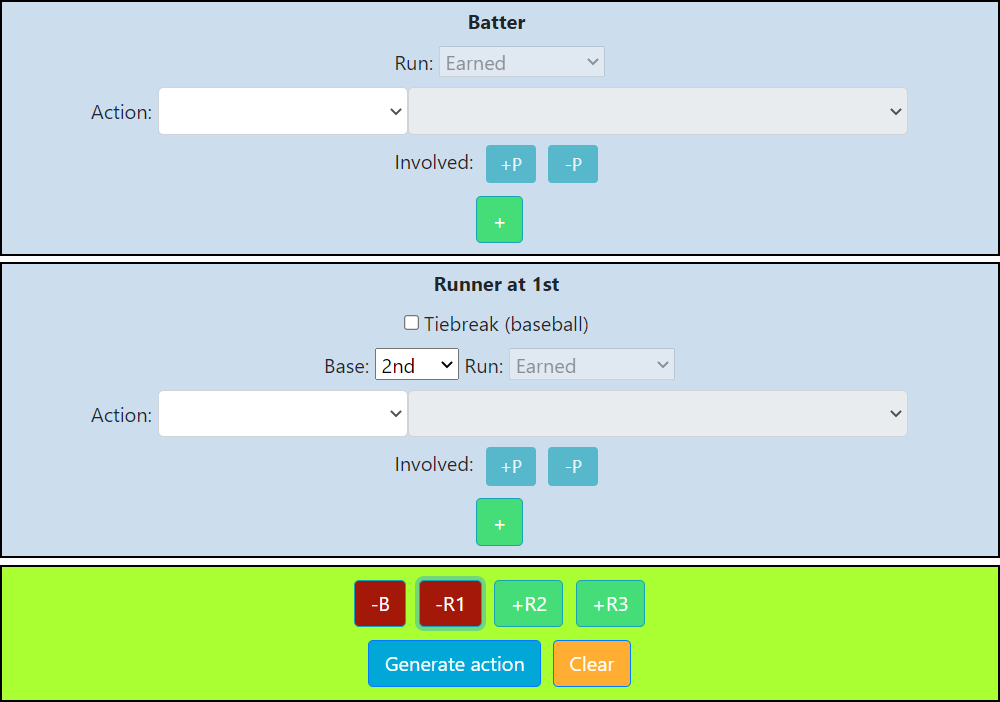
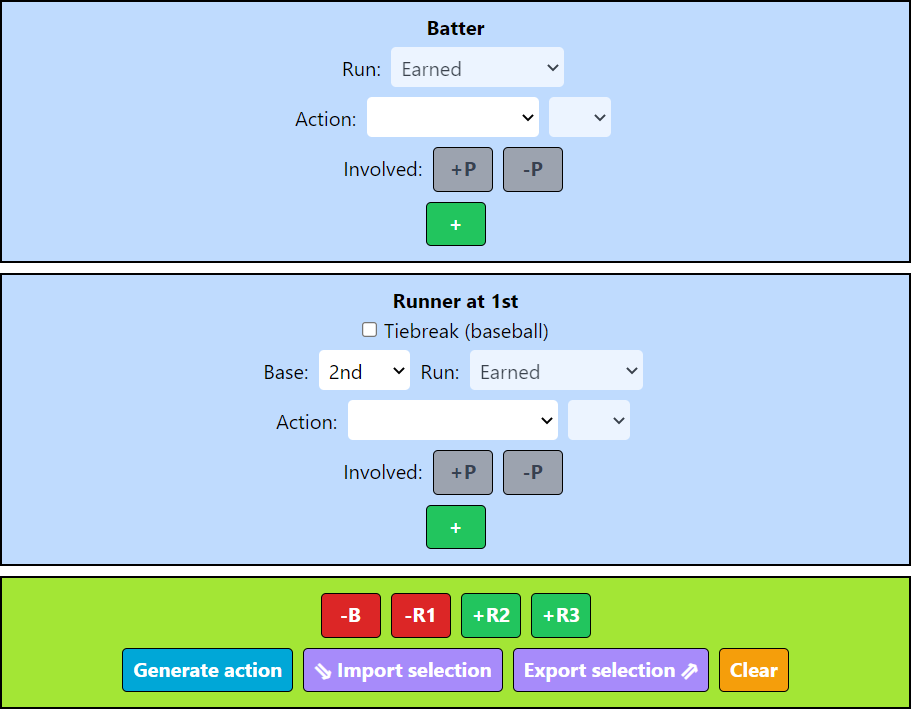
extend help with import/export

diff --git a/pages/help.vue b/pages/help.vue
@@ -170,6 +170,21 @@
       <img src="/15-clear.png" width="auto" height="50">
     </div>
 
+    <h3>Advanced - Import/Export input selection</h3>
+
+    <div class="mb-2">
+      <p>
+        You can use purple "Export selection" button to save the current selection and store it for later re-use. The file will be exported in <strong>.json</strong> format. Inputs can be exported anytime regardless the validity.
+      </p>
+      <img src="/16-export.png" width="auto" height="50">
+    </div>
+    <div class="mb-2">
+      <p>
+        Using the second purple "Import selection" button you can upload previously exported <strong>.json</strong> file. Providing it is a valid file, it will be parsed and transferred into corresponding input selection and the situation will be re-generated. Validation error may be triggered.
+      </p>
+      <img src="/17-import.png" width="auto" height="50">
+    </div>
+
     <NavButtons />
   </div>
 </template>

diff --git a/pages/project.vue b/pages/project.vue
@@ -82,7 +82,9 @@
     <div class="mb-2">
       <p><strong>Version 0.12</strong> (ongoing development)</p>
       <ul class="list-disc">
-        <li>Improved validation</li>
+        <li>New set of OBRs - according to 2019 manual</li>
+        <li>New feature - import/export inputs in JSON format</li>
+        <li>Improved validations</li>
         <li>Various bugfixes and corrections</li>
       </ul>
     </div>

diff --git a/README.md b/README.md
@@ -20,8 +20,12 @@ This software is distributed under [http://unlicense.org/](UNLICENSE) (free to u
 ## History
 
 ### Version 0.12 (ongoing development)
+- New actions - new set of OBRs - according to 2019 manual
+- New feature - 'Clear' button clears current output too
+- New feature - import/export inputs in JSON format
 - Validations - GitHub issues #72
-- Bug-fixing - GitHub issues #73
+- Bug-fixing - GitHub issues #73, #78, #79
+- Refactoring- GitHub issues #75
 
 ### Version 0.11 (2023-04-08)
 - Source converted into Nuxt 3 project with TypeScript
